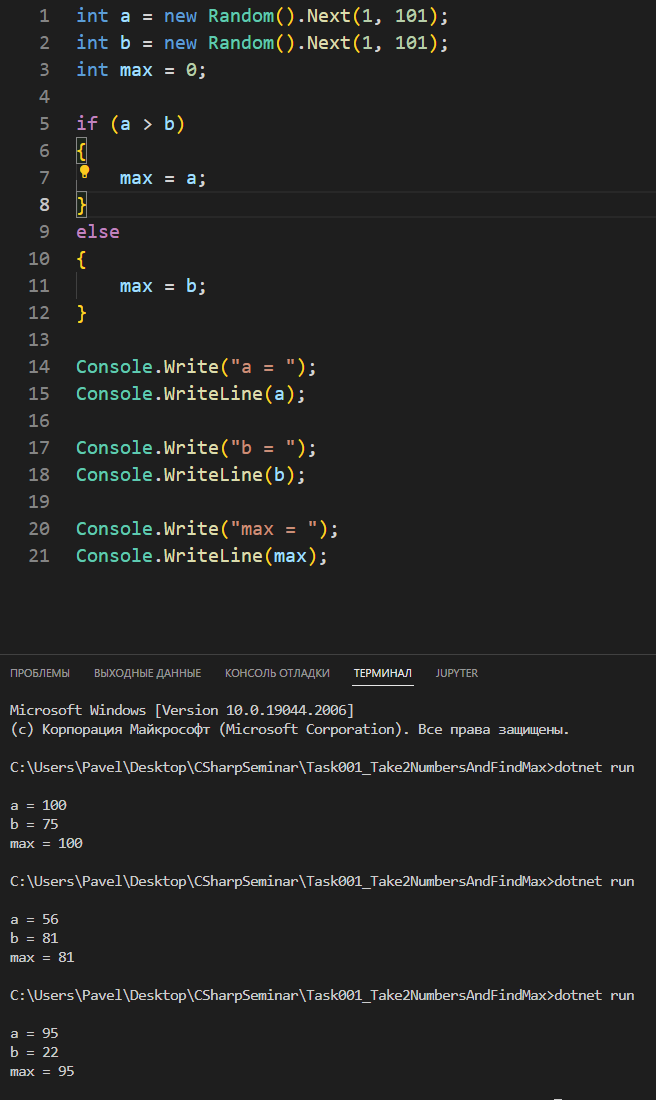
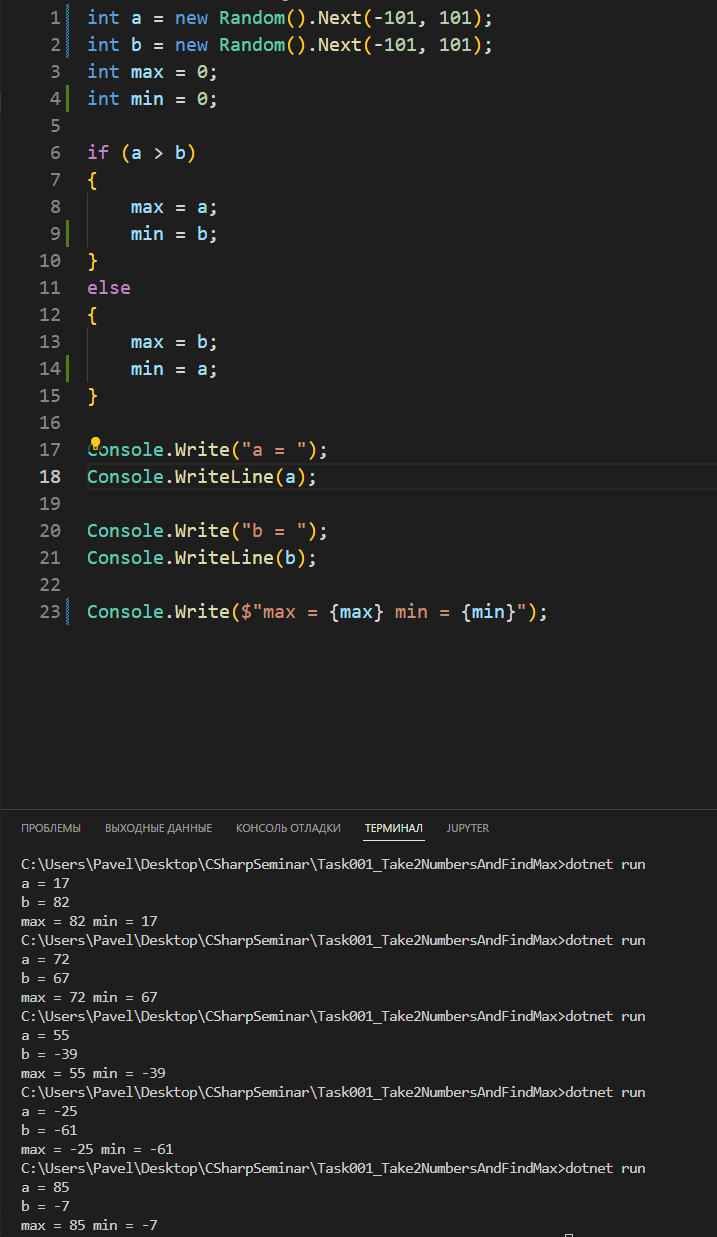
Обновил решение задачи и скриншот

diff --git a/Task001_Take2NumbersAndFindMax/Program.cs b/Task001_Take2NumbersAndFindMax/Program.cs
@@ -1,14 +1,17 @@
-int a = new Random().Next(1, 101);
-int b = new Random().Next(1, 101);
+int a = new Random().Next(-101, 101);
+int b = new Random().Next(-101, 101);
 int max = 0;
+int min = 0;
 
 if (a > b)
 {
     max = a;
+    min = b;
 }
 else
 {
     max = b;
+    min = a;
 }
 
 Console.Write("a = ");
@@ -17,5 +20,4 @@ Console.WriteLine(a);
 Console.Write("b = ");
 Console.WriteLine(b);
 
-Console.Write("max = ");
-Console.WriteLine(max);
+Console.Write($"max = {max} min = {min}");
